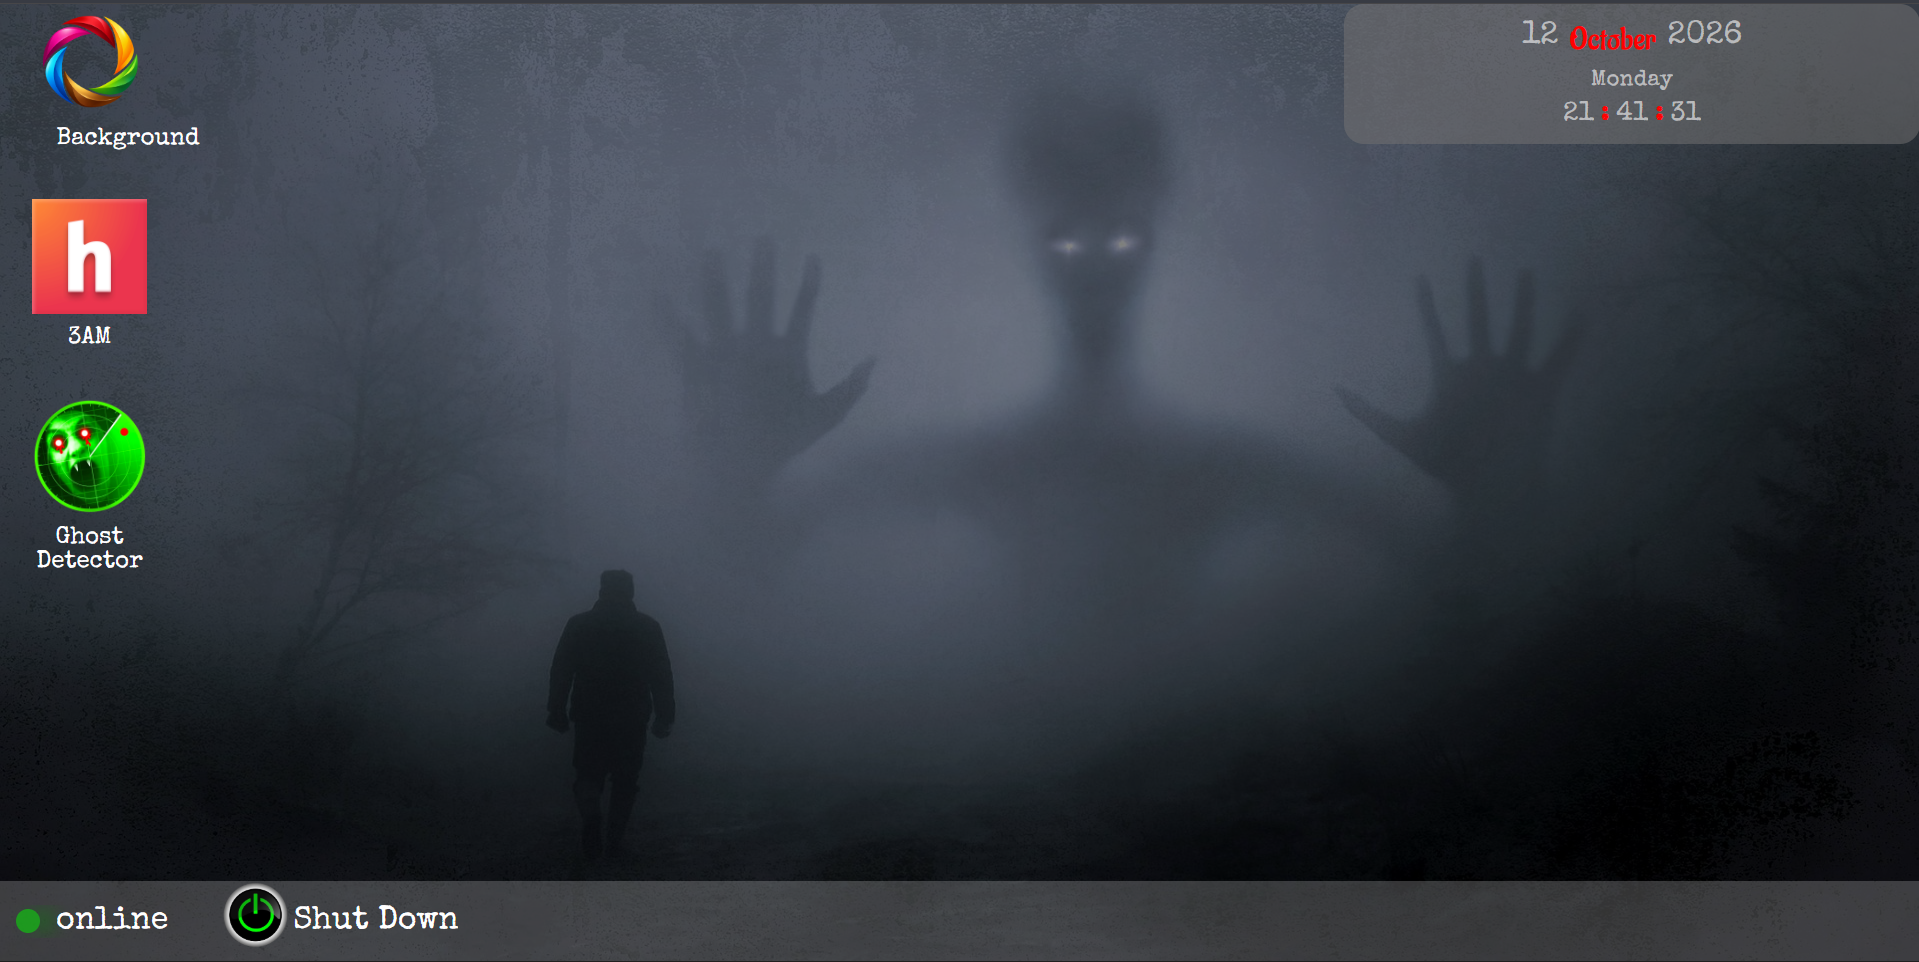
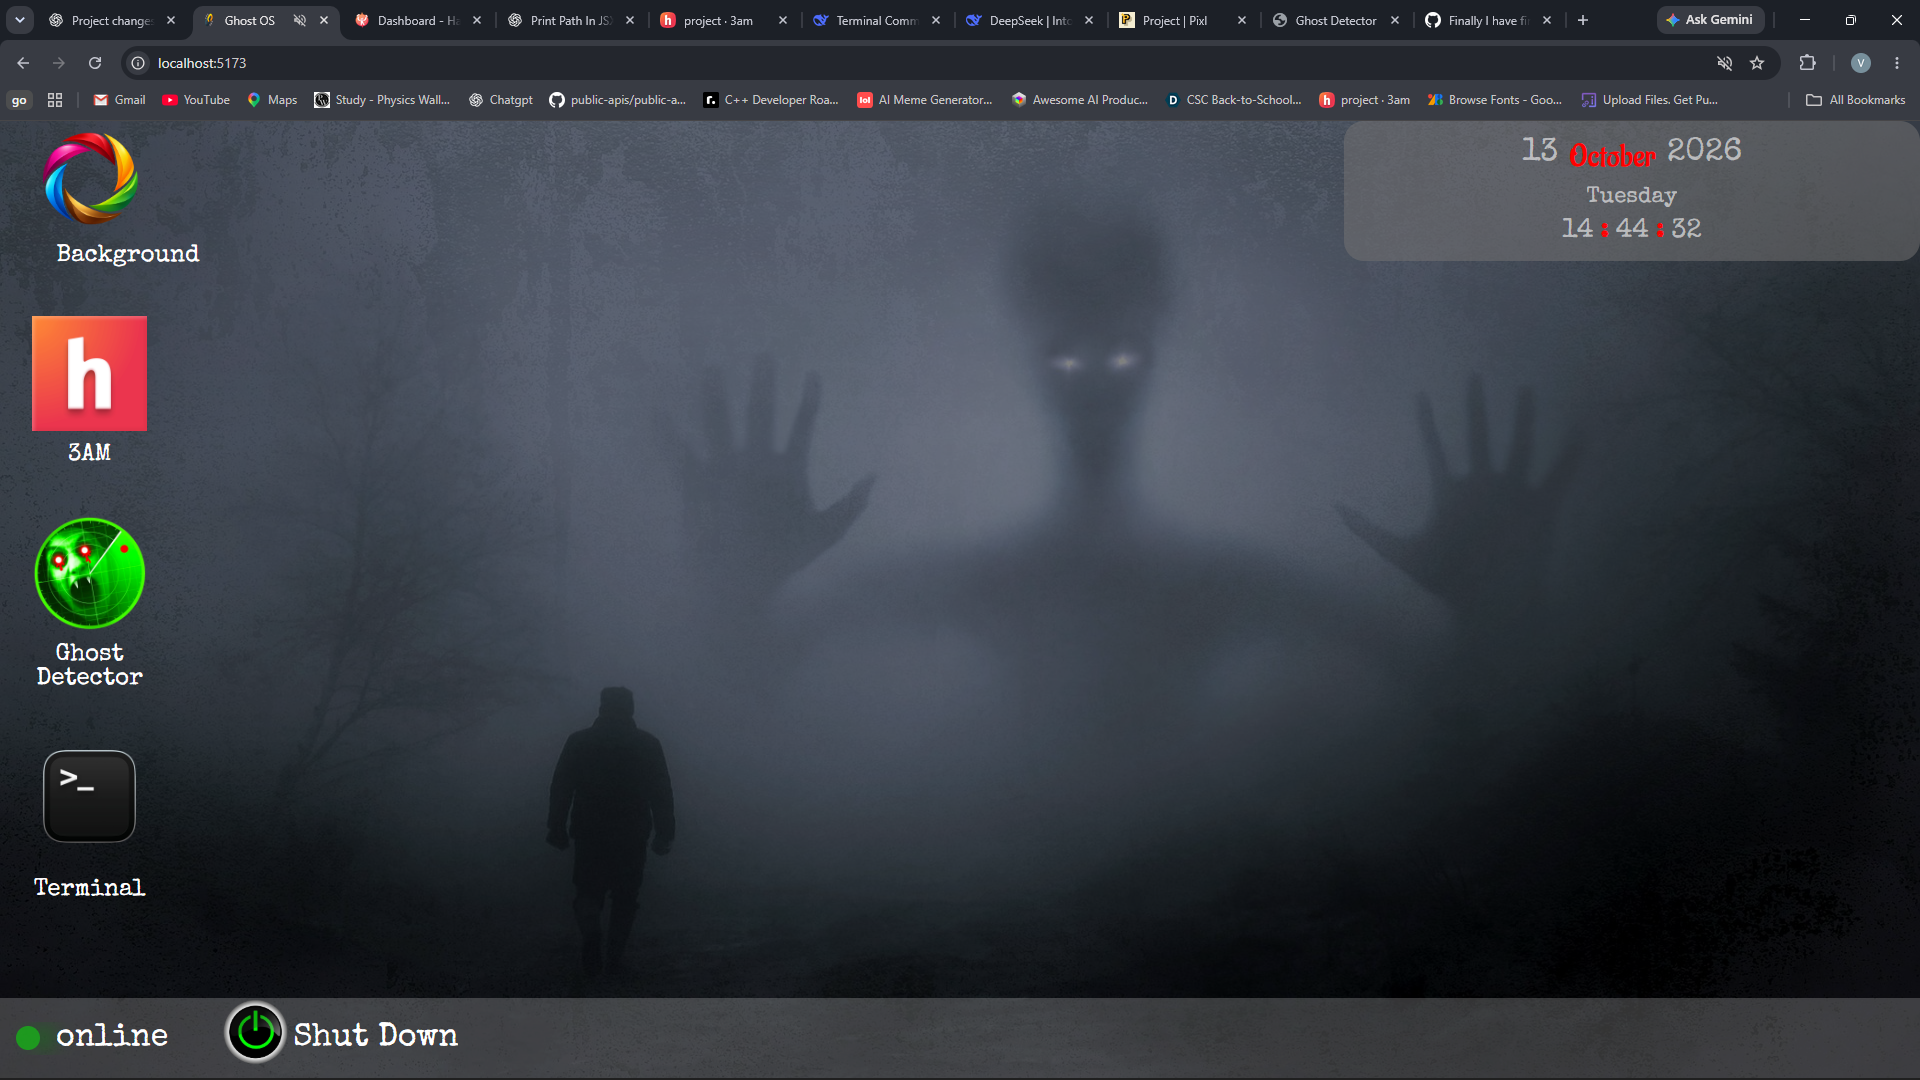
I have updated the screenshot and readme

diff --git a/README.md b/README.md
@@ -20,10 +20,12 @@ Second app is a redirect link to 3AM, it is the most horror and spooky part as i
 
 Third app is a ghost detector, this app is built by me and submitted to 3AM, it basically detects whether any ghost is present near you or not. Therefore, it is mandatory to use it because I had put a lots of efforts in building it. And if you do not try then my ghost friends will also stay with you.
 
+Fourth App is a terminal, where you can check your access, change color of text, clear the terminal. It was the hardest part in this whole project. It literally took around 3 hours to build it. The hardest part inside it was to make it run in a loop. I failed many times and debugged multiple errors and after a lots of struggle and failure I have completed it.
+
 ## To Try It
 
 Click here, https://ghost-os-phi.vercel.app/
 
 ## Challenges
 
-To be honest, everything was easy excepting the draggable window, it was really super hard. 
+To be honest, everything was easy excepting the draggable window and terminal. Both are really super hard. But the terminal was more harder to build than draggable window. At a point of time, I thought to drop the plan of building the terminal and create something but I still tried and finally build it.
